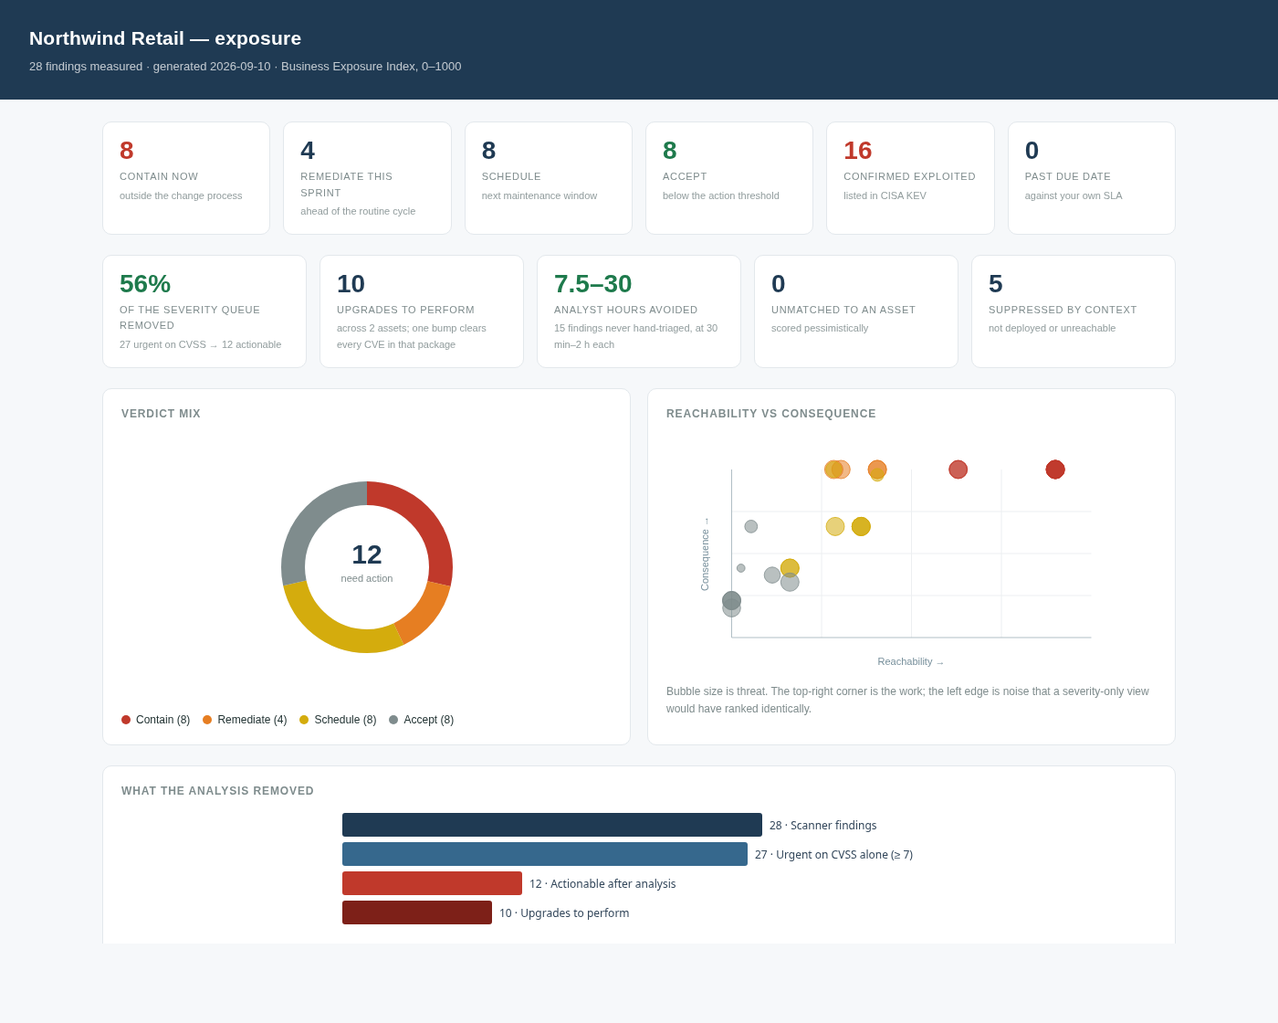
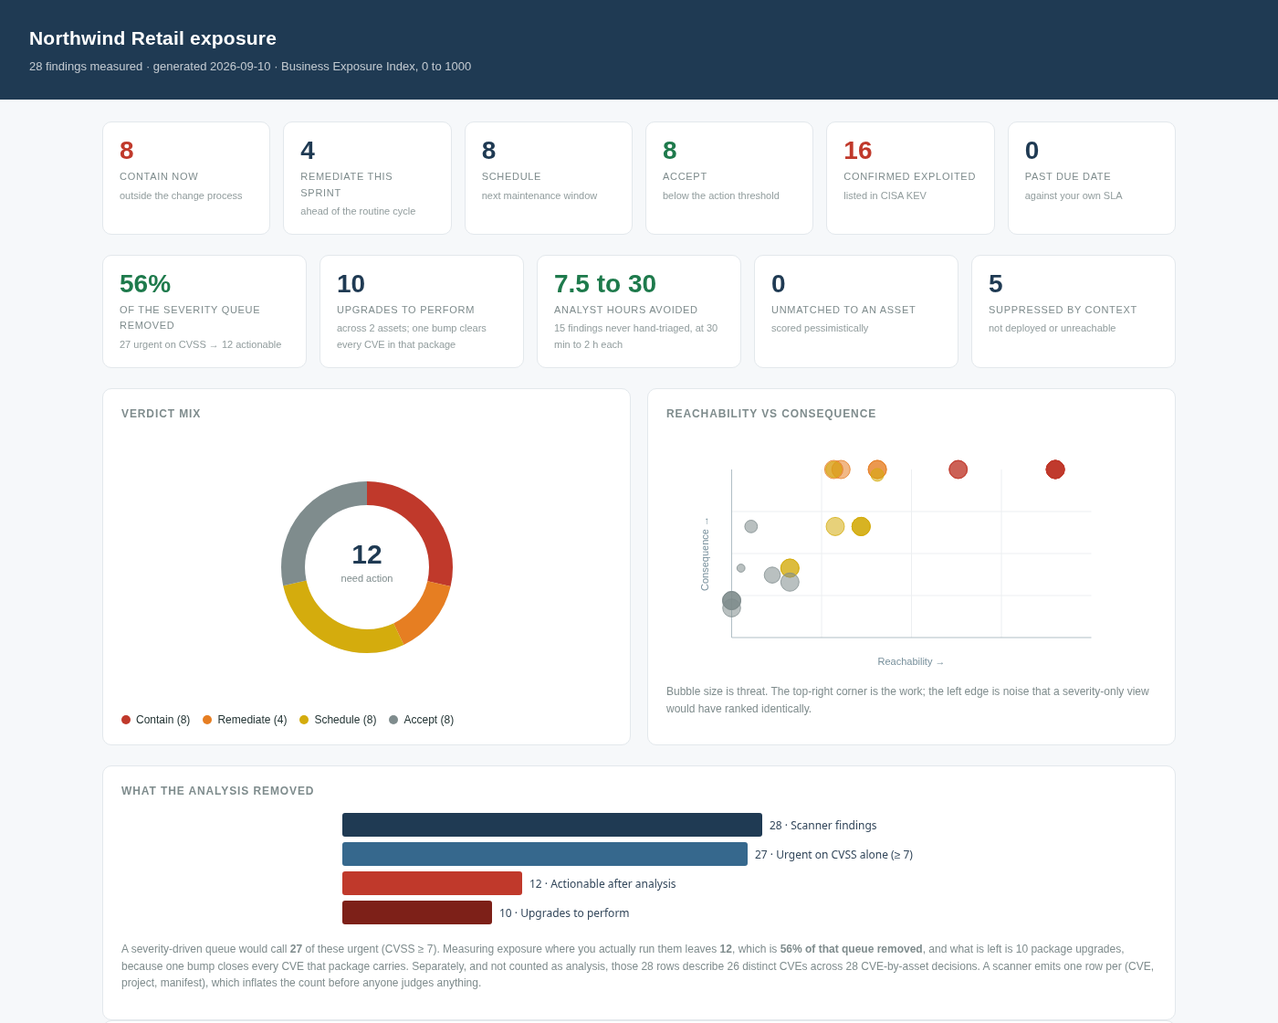
Line up the ranking headers, and refresh the README dashboard
The Critical/High/Other headers on the rankings table were centred while the
counts under them were right-aligned, so no column actually lined up. Both are
right-aligned now. The verdict row keeps centred headers because those sit over
colour blocks rather than bare numbers.

Regenerated examples/exposure.html and both screenshots. The full page is 2132
pixels rather than 3320, and the file 19 KB rather than 43, because the findings
table is gone.

README: the caption still promised a ranked findings table that no longer
exists. Replaced with the three-way rankings, including how the first row gets
its label and why the example reads "Scanner" rather than a tool name. Dropped
the dash from the --title in the reproduce command so it matches the title the
screenshot was taken with.

diff --git a/examples/exposure.html b/examples/exposure.html
@@ -1,7 +1,7 @@
 <!doctype html>
 <html lang="en"><head><meta charset="utf-8">
 <meta name="viewport" content="width=device-width,initial-scale=1">
-<title>Northwind Retail — exposure</title><style>
+<title>Northwind Retail exposure</title><style>
 :root { --ink:#1f3a53; --muted:#7f8c8d; --line:#e3e8ec; --bg:#f6f8fa; }
 * { box-sizing:border-box; }
 body { margin:0; background:var(--bg); color:#233; font:14px/1.55 -apple-system,BlinkMacSystemFont,"Segoe UI",Roboto,Helvetica,Arial,sans-serif; }
@@ -10,24 +10,30 @@ header h1 { margin:0 0 4px; font-size:21px; letter-spacing:.2px; }
 header p { margin:0; opacity:.72; font-size:13px; }
 main { padding:24px 32px 56px; max-width:1240px; margin:0 auto; }
 .grid { display:grid; grid-template-columns:repeat(auto-fit,minmax(300px,1fr)); gap:18px; margin-bottom:22px; }
-.card { background:#fff; border:1px solid var(--line); border-radius:10px; padding:18px 20px; display:flex; flex-direction:column; }
+.grid > * { min-width:0; }
+.card { background:#fff; border:1px solid var(--line); border-radius:10px; padding:18px 20px; display:flex; flex-direction:column; min-width:0; overflow:hidden; }
+.card > .scroll { overflow-x:auto; max-width:100%; }
+.card p { overflow-wrap:anywhere; }
 .card h2 { margin:0 0 14px; font-size:12px; text-transform:uppercase; letter-spacing:.9px; color:var(--muted); font-weight:700; }
 .kpis { display:grid; grid-template-columns:repeat(auto-fit,minmax(140px,1fr)); gap:14px; margin-bottom:22px; }
 .kpi { background:#fff; border:1px solid var(--line); border-radius:10px; padding:16px 18px; }
-.kpi .n { font-size:28px; font-weight:700; color:var(--ink); line-height:1.1; }
+.kpi { min-width:0; }
+.kpi .n { font-size:28px; font-weight:700; color:var(--ink); line-height:1.1; overflow-wrap:anywhere; }
+.kpi .s { overflow-wrap:anywhere; }
 .kpi .l { font-size:11px; text-transform:uppercase; letter-spacing:.7px; color:var(--muted); margin-top:5px; }
 .kpi .s { font-size:11px; color:var(--muted); margin-top:3px; opacity:.85; }
 .kpi.alert .n { color:#c0392b; }
 .kpi.good .n { color:#1e7a4c; }
-table.heat { border-collapse:separate; border-spacing:3px; width:100%; }
+table.heat { border-collapse:separate; border-spacing:3px; width:100%; table-layout:fixed; }
 table.heat th { padding:6px 8px; border:none; }
-table.heat th.rl { text-align:left; font-size:11px; color:var(--muted); text-transform:none; letter-spacing:0; font-weight:600; white-space:nowrap; max-width:230px; overflow:hidden; text-overflow:ellipsis; }
+table.heat th.rl { text-align:left; font-size:11px; color:var(--muted); text-transform:none; letter-spacing:0; font-weight:600; white-space:nowrap; width:34%; max-width:0; overflow:hidden; text-overflow:ellipsis; }
 table.heat td { border:none; padding:0; }
 td.hc { border-radius:5px; text-align:center; height:30px; min-width:52px; }
 td.hc span { color:#fff; font-weight:700; font-size:12px; font-variant-numeric:tabular-nums; }
 td.hc.empty { background:#f2f5f7; }
 td.hc.empty span { color:#c3ccd3; font-weight:400; }
 td.rt { text-align:right; padding-right:6px; font-weight:700; color:var(--ink); font-variant-numeric:tabular-nums; font-size:12px; }
+table.heat th.rt { text-align:right; padding-right:6px; }
 table { width:100%; border-collapse:collapse; font-size:13px; }
 th { text-align:left; font-size:11px; text-transform:uppercase; letter-spacing:.6px; color:var(--muted); padding:8px 10px; border-bottom:2px solid var(--line); white-space:nowrap; }
 td { padding:9px 10px; border-bottom:1px solid var(--line); vertical-align:top; }
@@ -45,8 +51,8 @@ code { background:#eef2f5; padding:1px 5px; border-radius:4px; font-size:12px; }
 </style></head>
 <body>
 <header>
-  <h1>Northwind Retail — exposure</h1>
-  <p>28 findings measured · generated 2026-09-10 · Business Exposure Index, 0&ndash;1000</p>
+  <h1>Northwind Retail exposure</h1>
+  <p>28 findings measured · generated 2026-09-10 · Business Exposure Index, 0 to 1000</p>
 </header>
 <main>
 
@@ -62,7 +68,7 @@ code { background:#eef2f5; padding:1px 5px; border-radius:4px; font-size:12px; }
 <div class="kpis">
   <div class="kpi good"><div class="n">56%</div><div class="l">of the severity queue removed</div><div class="s">27 urgent on CVSS → 12 actionable</div></div>
   <div class="kpi"><div class="n">10</div><div class="l">upgrades to perform</div><div class="s">across 2 assets; one bump clears every CVE in that package</div></div>
-  <div class="kpi good"><div class="n">7.5–30</div><div class="l">analyst hours avoided</div><div class="s">15 findings never hand-triaged, at 30 min–2 h each</div></div>
+  <div class="kpi good"><div class="n">7.5 to 30</div><div class="l">analyst hours avoided</div><div class="s">15 findings never hand-triaged, at 30 min to 2 h each</div></div>
   <div class="kpi"><div class="n">0</div><div class="l">unmatched to an asset</div><div class="s">scored pessimistically</div></div>
   <div class="kpi"><div class="n">5</div><div class="l">suppressed by context</div><div class="s">not deployed or unreachable</div></div>
 </div>
@@ -87,20 +93,33 @@ code { background:#eef2f5; padding:1px 5px; border-radius:4px; font-size:12px; }
   <p class="muted">A severity-driven queue would call
   <strong>27</strong> of these urgent
   (CVSS &ge; 7). Measuring exposure where you actually run
-  them leaves <strong>12</strong> &mdash;
+  them leaves <strong>12</strong>, which is
   <strong>56% of that queue removed</strong>, and what
   is left is 10 package
   upgrades, because one bump
   closes every CVE that package carries. Separately, and not counted as analysis, those
   28 rows describe
   26 distinct CVEs across
-  28 CVE&nbsp;&times;&nbsp;asset decisions: a scanner emits one
+  28 CVE-by-asset decisions. A scanner emits one
   row per (CVE, project, manifest), which inflates the count before anyone judges anything.</p>
 </div>
 
 <div class="card">
-  <h2>Where the work sits &mdash; business unit &times; verdict</h2>
-  <table class="heat"><thead><tr><th class="rl">business unit</th><th>Contain</th><th>Remediate</th><th>Schedule</th><th>Accept</th><th class="rt">all</th></tr></thead><tbody><tr><th class="rl" title="Commerce">Commerce</th><td class="hc" style="background:#c0392b;opacity:1.00"><span>8</span></td><td class="hc" style="background:#e67e22;opacity:0.59"><span>4</span></td><td class="hc" style="background:#d4ac0d;opacity:0.39"><span>2</span></td><td class="hc empty"><span>&middot;</span></td><td class="rt">14</td></tr><tr><th class="rl" title="Operations">Operations</th><td class="hc empty"><span>&middot;</span></td><td class="hc empty"><span>&middot;</span></td><td class="hc" style="background:#d4ac0d;opacity:0.59"><span>4</span></td><td class="hc" style="background:#7f8c8d;opacity:0.28"><span>1</span></td><td class="rt">5</td></tr><tr><th class="rl" title="Corporate">Corporate</th><td class="hc empty"><span>&middot;</span></td><td class="hc empty"><span>&middot;</span></td><td class="hc" style="background:#d4ac0d;opacity:0.39"><span>2</span></td><td class="hc" style="background:#7f8c8d;opacity:0.49"><span>3</span></td><td class="rt">5</td></tr><tr><th class="rl" title="Data">Data</th><td class="hc empty"><span>&middot;</span></td><td class="hc empty"><span>&middot;</span></td><td class="hc empty"><span>&middot;</span></td><td class="hc" style="background:#7f8c8d;opacity:0.59"><span>4</span></td><td class="rt">4</td></tr></tbody></table>
+  <h2>The same findings, ranked three ways</h2>
+  <div class="scroll"><table class="heat"><thead><tr><th class="rl">ranked by</th><th class="rt">Critical</th><th class="rt">High</th><th class="rt">other</th></tr></thead><tbody><tr><th class="rl">Scanner</th><td class="rt">15</td><td class="rt">10</td><td class="rt muted">3</td></tr><tr><th class="rl">CVSS, from NVD</th><td class="rt">14</td><td class="rt">13</td><td class="rt muted">1</td></tr></tbody></table><table class="heat" style="margin-top:10px"><thead><tr><th class="rl">this analysis</th><th>Contain</th><th>Remediate</th><th>Schedule</th><th>Accept</th></tr></thead><tbody><tr><th class="rl">verdict</th><td class="hc" style="background:#c0392b;opacity:1.00"><span>8</span></td><td class="hc" style="background:#e67e22;opacity:0.59"><span>4</span></td><td class="hc" style="background:#d4ac0d;opacity:1.00"><span>8</span></td><td class="hc" style="background:#7f8c8d;opacity:1.00"><span>8</span></td></tr></tbody></table></div>
+  <p class="muted">
+  The scanner called <strong>15</strong> of these <strong>Critical</strong>; NVD&rsquo;s CVSS calls <strong>14</strong> <strong>Critical</strong>; 
+  measuring exposure where you actually run them leaves
+  <strong>12</strong> needing action and <strong>8</strong> accepted.
+  The first two rows disagree because a scanner&rsquo;s own rating is not CVSS. Neither is
+  wrong, and neither is a verdict. &ldquo;Other&rdquo; is everything rated below High.
+  Accepted findings are recorded with their reasoning in the workbook&rsquo;s Accepted
+  sheet.</p>
+</div>
+
+<div class="card">
+  <h2>Where the work sits: business unit by verdict</h2>
+  <div class="scroll"><table class="heat"><thead><tr><th class="rl">business unit</th><th>Contain</th><th>Remediate</th><th>Schedule</th><th>Accept</th><th class="rt">all</th></tr></thead><tbody><tr><th class="rl" title="Commerce">Commerce</th><td class="hc" style="background:#c0392b;opacity:1.00"><span>8</span></td><td class="hc" style="background:#e67e22;opacity:0.59"><span>4</span></td><td class="hc" style="background:#d4ac0d;opacity:0.39"><span>2</span></td><td class="hc empty"><span>&middot;</span></td><td class="rt">14</td></tr><tr><th class="rl" title="Operations">Operations</th><td class="hc empty"><span>&middot;</span></td><td class="hc empty"><span>&middot;</span></td><td class="hc" style="background:#d4ac0d;opacity:0.59"><span>4</span></td><td class="hc" style="background:#7f8c8d;opacity:0.28"><span>1</span></td><td class="rt">5</td></tr><tr><th class="rl" title="Corporate">Corporate</th><td class="hc empty"><span>&middot;</span></td><td class="hc empty"><span>&middot;</span></td><td class="hc" style="background:#d4ac0d;opacity:0.39"><span>2</span></td><td class="hc" style="background:#7f8c8d;opacity:0.49"><span>3</span></td><td class="rt">5</td></tr><tr><th class="rl" title="Data">Data</th><td class="hc empty"><span>&middot;</span></td><td class="hc empty"><span>&middot;</span></td><td class="hc empty"><span>&middot;</span></td><td class="hc" style="background:#7f8c8d;opacity:0.59"><span>4</span></td><td class="rt">4</td></tr></tbody></table></div>
   <p class="muted">Colour is the verdict, depth is the count. Rows are ordered by total exposure,
   so the top row is where attention buys the most. A row that is wide on the right and empty on
   the left is carrying volume, not risk.</p>
@@ -115,12 +134,6 @@ code { background:#eef2f5; padding:1px 5px; border-radius:4px; font-size:12px; }
     <h2>Actionable load by owner</h2>
     <svg viewBox="0 0 460 64" width="100%" height="64"><text x="157" y="15" text-anchor="end" font-size="12" fill="#37474f">payments@northwind.example</text><rect x="165" y="0" width="243.0" height="22" rx="3" fill="#c0392b"/><text x="416.0" y="15" font-size="11" fill="#546e7a">8</text><text x="157" y="47" text-anchor="end" font-size="12" fill="#37474f">web@northwind.example</text><rect x="165" y="32" width="121.5" height="22" rx="3" fill="#c0392b"/><text x="294.5" y="47" font-size="11" fill="#546e7a">4</text></svg>
   </div>
-</div>
-
-<div class="card">
-  <h2>Highest exposure</h2>
-  <table><thead><tr><th>CVE</th><th>BEI</th><th>Verdict</th><th>Asset</th><th>Owner</th><th>Due</th><th>Primary driver</th></tr></thead><tbody><tr><td><strong>CVE-2021-44228</strong></td><td class="bei">928.9</td><td><span class="pill" style="background:#c0392b">Contain</span></td><td>checkout-api</td><td>payments@northwind.example</td><td>2026-09-12</td><td class="muted">CISA KEV lists this as exploited in the wild: observed, not predicted</td></tr><tr><td><strong>CVE-2022-22965</strong></td><td class="bei">928.9</td><td><span class="pill" style="background:#c0392b">Contain</span></td><td>checkout-api</td><td>payments@northwind.example</td><td>2026-09-12</td><td class="muted">CISA KEV lists this as exploited in the wild: observed, not predicted</td></tr><tr><td><strong>CVE-2023-44487</strong></td><td class="bei">928.9</td><td><span class="pill" style="background:#c0392b">Contain</span></td><td>checkout-api</td><td>payments@northwind.example</td><td>2026-09-12</td><td class="muted">CISA KEV lists this as exploited in the wild: observed, not predicted</td></tr><tr><td><strong>CVE-2022-1471</strong></td><td class="bei">927.8</td><td><span class="pill" style="background:#c0392b">Contain</span></td><td>checkout-api</td><td>payments@northwind.example</td><td>2026-09-12</td><td class="muted">EPSS puts exploitation within 30 days at 99.57%, ahead of 100% of all CVEs</td></tr><tr><td><strong>CVE-2023-38545</strong></td><td class="bei">868</td><td><span class="pill" style="background:#c0392b">Contain</span></td><td>checkout-api</td><td>payments@northwind.example</td><td>2026-09-12</td><td class="muted">EPSS puts exploitation within 30 days at 78.48%, ahead of 100% of all CVEs</td></tr><tr><td><strong>CVE-2022-0778</strong></td><td class="bei">851.2</td><td><span class="pill" style="background:#c0392b">Contain</span></td><td>checkout-api</td><td>payments@northwind.example</td><td>2026-09-12</td><td class="muted">EPSS puts exploitation within 30 days at 73.19%, ahead of 99% of all CVEs</td></tr><tr><td><strong>CVE-2021-45046</strong></td><td class="bei">723.7</td><td><span class="pill" style="background:#c0392b">Contain</span></td><td>checkout-api</td><td>payments@northwind.example</td><td>2026-09-12</td><td class="muted">CISA KEV lists this as exploited in the wild: observed, not predicted</td></tr><tr><td><strong>CVE-2016-2107</strong></td><td class="bei">700.6</td><td><span class="pill" style="background:#c0392b">Contain</span></td><td>checkout-api</td><td>payments@northwind.example</td><td>2026-09-12</td><td class="muted">EPSS puts exploitation within 30 days at 89.06%, ahead of 100% of all CVEs</td></tr><tr><td><strong>CVE-2023-34362</strong></td><td class="bei">531.2</td><td><span class="pill" style="background:#e67e22">Remediate</span></td><td>customer-portal</td><td>web@northwind.example</td><td>2026-09-17</td><td class="muted">CISA KEV lists this as exploited in the wild: observed, not predicted</td></tr><tr><td><strong>CVE-2022-42889</strong></td><td class="bei">531</td><td><span class="pill" style="background:#e67e22">Remediate</span></td><td>customer-portal</td><td>web@northwind.example</td><td>2026-09-17</td><td class="muted">EPSS puts exploitation within 30 days at 99.93%, ahead of 100% of all CVEs</td></tr><tr><td><strong>CVE-2023-4863</strong></td><td class="bei">434.3</td><td><span class="pill" style="background:#e67e22">Remediate</span></td><td>customer-portal</td><td>web@northwind.example</td><td>2026-09-17</td><td class="muted">CISA KEV lists this as exploited in the wild: observed, not predicted</td></tr><tr><td><strong>CVE-2018-11776</strong></td><td class="bei">413.8</td><td><span class="pill" style="background:#e67e22">Remediate</span></td><td>customer-portal</td><td>web@northwind.example</td><td>2026-09-17</td><td class="muted">CISA KEV lists this as exploited in the wild: observed, not predicted</td></tr><tr><td><strong>CVE-2020-1938</strong></td><td class="bei">381.5</td><td><span class="pill" style="background:#d4ac0d">Schedule</span></td><td>warehouse-wms</td><td>logistics-it@northwind.example</td><td>2026-11-21</td><td class="muted">CISA KEV lists this as exploited in the wild: observed, not predicted</td></tr><tr><td><strong>CVE-2023-46604</strong></td><td class="bei">381.5</td><td><span class="pill" style="background:#d4ac0d">Schedule</span></td><td>warehouse-wms</td><td>logistics-it@northwind.example</td><td>2026-11-21</td><td class="muted">CISA KEV lists this as exploited in the wild: observed, not predicted</td></tr><tr><td><strong>CVE-2019-0708</strong></td><td class="bei">381.5</td><td><span class="pill" style="background:#d4ac0d">Schedule</span></td><td>warehouse-wms</td><td>logistics-it@northwind.example</td><td>2026-11-21</td><td class="muted">CISA KEV lists this as exploited in the wild: observed, not predicted</td></tr><tr><td><strong>CVE-2021-23017</strong></td><td class="bei">347.2</td><td><span class="pill" style="background:#d4ac0d">Schedule</span></td><td>customer-portal</td><td>web@northwind.example</td><td>2026-10-02</td><td class="muted">EPSS puts exploitation within 30 days at 53.46%, ahead of 99% of all CVEs</td></tr><tr><td><strong>CVE-2023-24329</strong></td><td class="bei">334</td><td><span class="pill" style="background:#d4ac0d">Schedule</span></td><td>customer-portal</td><td>web@northwind.example</td><td>2026-10-02</td><td class="muted">EPSS puts exploitation within 30 days at 20.46%, ahead of 97% of all CVEs</td></tr><tr><td><strong>CVE-2021-34527</strong></td><td class="bei">326.3</td><td><span class="pill" style="background:#d4ac0d">Schedule</span></td><td>warehouse-wms</td><td>logistics-it@northwind.example</td><td>2026-11-21</td><td class="muted">CISA KEV lists this as exploited in the wild: observed, not predicted</td></tr><tr><td><strong>CVE-2017-5638</strong></td><td class="bei">164.5</td><td><span class="pill" style="background:#d4ac0d">Schedule</span></td><td>internal-wiki</td><td>it-ops@northwind.example</td><td>2027-01-14</td><td class="muted">CISA KEV lists this as exploited in the wild: observed, not predicted</td></tr><tr><td><strong>CVE-2021-44228</strong></td><td class="bei">164.5</td><td><span class="pill" style="background:#d4ac0d">Schedule</span></td><td>internal-wiki</td><td>it-ops@northwind.example</td><td>2027-01-14</td><td class="muted">CISA KEV lists this as exploited in the wild: observed, not predicted</td></tr><tr><td><strong>CVE-2014-0160</strong></td><td class="bei">143.9</td><td><span class="pill" style="background:#7f8c8d">Accept</span></td><td>internal-wiki</td><td>it-ops@northwind.example</td><td>-</td><td class="muted">CISA KEV lists this as exploited in the wild: observed, not predicted</td></tr><tr><td><strong>CVE-2023-0286</strong></td><td class="bei">104.1</td><td><span class="pill" style="background:#7f8c8d">Accept</span></td><td>internal-wiki</td><td>it-ops@northwind.example</td><td>-</td><td class="muted">EPSS puts exploitation within 30 days at 59.50%, ahead of 99% of all CVEs</td></tr><tr><td><strong>CVE-2024-21626</strong></td><td class="bei">62.6</td><td><span class="pill" style="background:#7f8c8d">Accept</span></td><td>warehouse-wms</td><td>logistics-it@northwind.example</td><td>-</td><td class="muted">EPSS puts exploitation within 30 days at 18.09%, ahead of 97% of all CVEs</td></tr><tr><td><strong>CVE-2022-24765</strong></td><td class="bei">12.6</td><td><span class="pill" style="background:#7f8c8d">Accept</span></td><td>internal-wiki</td><td>it-ops@northwind.example</td><td>-</td><td class="muted">EPSS puts exploitation within 30 days at 1.01%, ahead of 61% of all CVEs</td></tr><tr><td><strong>CVE-2024-3094</strong></td><td class="bei">0</td><td><span class="pill" style="background:#7f8c8d">Accept</span></td><td>ml-sandbox</td><td>data-science@northwind.example</td><td>-</td><td class="muted">EPSS puts exploitation within 30 days at 85.97%, ahead of 100% of all CVEs</td></tr><tr><td><strong>CVE-2021-44228</strong></td><td class="bei">0</td><td><span class="pill" style="background:#7f8c8d">Accept</span></td><td>ml-sandbox</td><td>data-science@northwind.example</td><td>-</td><td class="muted">CISA KEV lists this as exploited in the wild: observed, not predicted</td></tr><tr><td><strong>CVE-2017-0144</strong></td><td class="bei">0</td><td><span class="pill" style="background:#7f8c8d">Accept</span></td><td>ml-sandbox</td><td>data-science@northwind.example</td><td>-</td><td class="muted">CISA KEV lists this as exploited in the wild: observed, not predicted</td></tr><tr><td><strong>CVE-2022-3602</strong></td><td class="bei">0</td><td><span class="pill" style="background:#7f8c8d">Accept</span></td><td>ml-sandbox</td><td>data-science@northwind.example</td><td>-</td><td class="muted">EPSS puts exploitation within 30 days at 90.77%, ahead of 100% of all CVEs</td></tr></tbody></table>
-  
 </div>
 
 </main>

diff --git a/src/vulnometry/report/dashboard.py b/src/vulnometry/report/dashboard.py
@@ -140,6 +140,7 @@ td.hc span { color:#fff; font-weight:700; font-size:12px; font-variant-numeric:t
 td.hc.empty { background:#f2f5f7; }
 td.hc.empty span { color:#c3ccd3; font-weight:400; }
 td.rt { text-align:right; padding-right:6px; font-weight:700; color:var(--ink); font-variant-numeric:tabular-nums; font-size:12px; }
+table.heat th.rt { text-align:right; padding-right:6px; }
 table { width:100%; border-collapse:collapse; font-size:13px; }
 th { text-align:left; font-size:11px; text-transform:uppercase; letter-spacing:.6px; color:var(--muted); padding:8px 10px; border-bottom:2px solid var(--line); white-space:nowrap; }
 td { padding:9px 10px; border-bottom:1px solid var(--line); vertical-align:top; }
@@ -216,7 +217,7 @@ def _rankings(cross: dict, counts: dict, focus=("Critical", "High")) -> str:
         else '<td class="hc empty"><span>&middot;</span></td>'
         for v in VERDICT_ORDER)
 
-    head = "".join(f"<th>{_e(b)}</th>" for b in focus)
+    head = "".join(f'<th class="rt">{_e(b)}</th>' for b in focus)
     vhead = "".join(f"<th>{_e(v)}</th>" for v in VERDICT_ORDER)
     return (f'<table class="heat"><thead><tr><th class="rl">ranked by</th>{head}'
             f'<th class="rt">other</th></tr></thead><tbody>{"".join(rows)}</tbody></table>'

diff --git a/README.md b/README.md
@@ -321,9 +321,9 @@ library.
 vulnometry import export.xlsx --dashboard exposure.html
 ```
 
-[![The vulnometry exposure dashboard: two KPI rows covering the four verdicts and the leadership numbers, a business-unit-by-verdict heat map, the reduction funnel, a verdict donut, exposure by business unit, actionable load by owner, and a reachability-versus-consequence scatter](https://raw.githubusercontent.com/san3ncrypt3d/vulnometry/main/docs/img/dashboard.png)](https://raw.githubusercontent.com/san3ncrypt3d/vulnometry/main/docs/img/dashboard-full.png)
+[![The vulnometry exposure dashboard: two KPI rows covering the four verdicts and the leadership numbers, a verdict donut, a reachability-versus-consequence scatter, the reduction funnel, the same findings ranked three ways, a business-unit-by-verdict heat map, exposure by business unit, and actionable load by owner](https://raw.githubusercontent.com/san3ncrypt3d/vulnometry/main/docs/img/dashboard.png)](https://raw.githubusercontent.com/san3ncrypt3d/vulnometry/main/docs/img/dashboard-full.png)
 
-*Click through for the full page, including the ranked findings table. The file itself is
+*Click through for the full page, including the three-way severity rankings and the heat map. The file itself is
 [`examples/exposure.html`](https://github.com/san3ncrypt3d/vulnometry/blob/main/examples/exposure.html) — download it and open it in a browser
 for the hover detail on every bubble.*
 
@@ -343,6 +343,24 @@ ordered by total exposure, so the top row is where attention buys the most. A ro
 on the right and empty on the left is carrying volume, not risk.
 
 **What the analysis removed.** The funnel described above, as a bar chart.
+
+**The same findings, ranked three ways.** "You accepted 40 Critical findings" is the first
+challenge any report of this kind meets, so the page answers it rather than leaving it to be
+discovered. One row for what the scanner called Critical and High, one for what NVD's CVSS
+calls them, one for the verdict this tool reached. The first two disagree routinely, because a
+scanner's own rating is not CVSS; neither is a verdict. Anything rated below High totals under
+"other" rather than being dropped, so the rows reconcile against the finding count.
+
+The first row is labelled with the tool that produced the export. `sniff_tabular_scanner()`
+recognises Snyk, Tenable Nessus, Qualys, Rapid7 InsightVM, Wiz, Prisma Cloud, Trivy and
+Dependabot by columns only that tool emits, so a Snyk export reads `Snyk` and a Qualys export
+reads `Qualys`. Every signature needs two distinctive columns, so a stray `Plugin ID` in a
+hand-made spreadsheet cannot make the report claim the data came from Nessus. The generic
+export in the screenshot above identifies no tool, so it reads `Scanner`. Nothing in the model
+branches on the name; it is a label.
+
+The same numbers are on `summary.severity_crosstab` in the JSON output, split by
+`by_scanner_severity` and `by_cvss_band`.
 
 Then a verdict donut, exposure by business unit, actionable load by owner, and a
 reachability-versus-consequence scatter with bubble size set by threat. Findings in the
@@ -369,7 +387,7 @@ That example is real output, not a mock-up. Reproduce it in one command:
 
 ```bash
 vulnometry import examples/scan-export.csv --inventory examples/vulnometry.yaml \
-  --lens full --dashboard exposure.html --title "Northwind Retail — exposure"
+  --lens full --dashboard exposure.html --title "Northwind Retail exposure"
 ```
 
 Also served at `/dashboard` when running `vulnometry serve http`.
